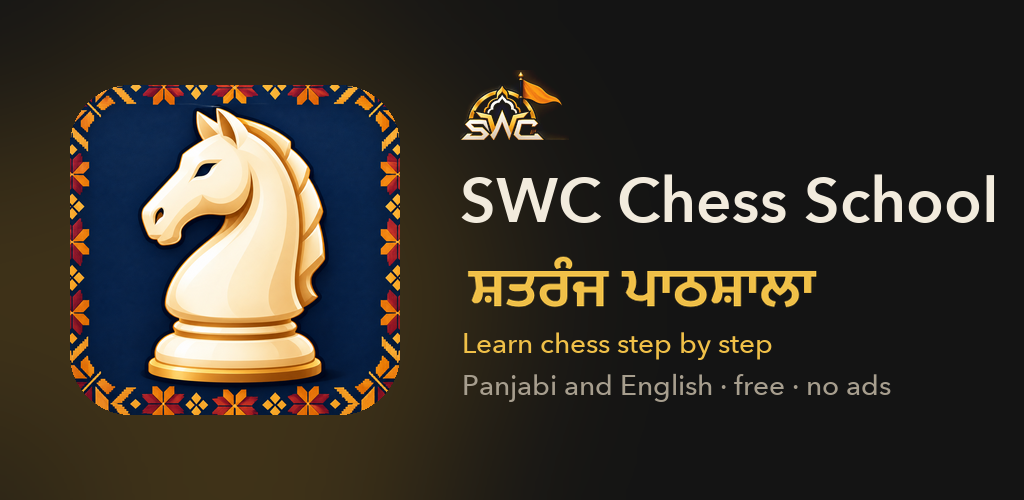
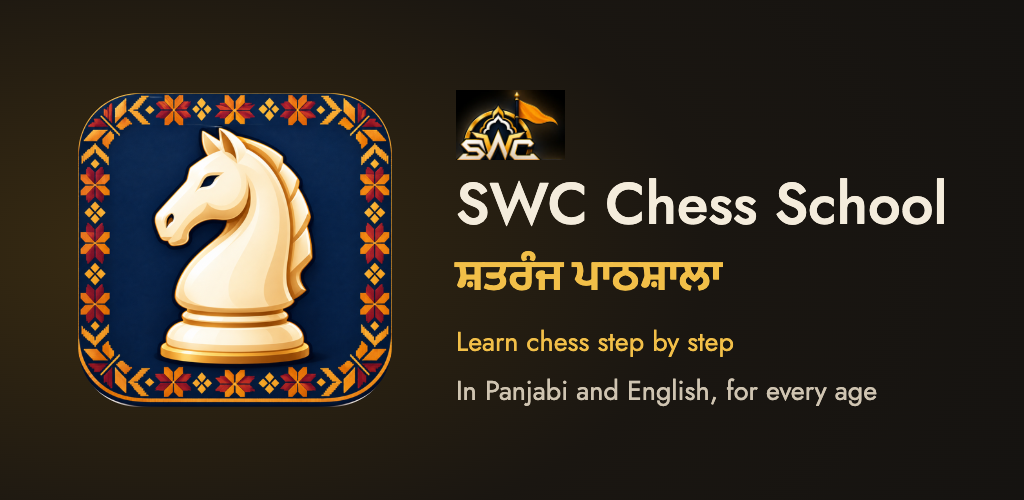
Play listing: remove promotional claims after Metadata-policy rejection; new feature graphic

diff --git a/native/PLAY_STORE.md b/native/PLAY_STORE.md
@@ -37,9 +37,11 @@ is approved and live.
 
 ## Full description (4,000 characters max)
 
+**Google rejected the 1.2.0 listing on 2026-11-08 (Metadata policy: store listing promotion).** No price, "free", "no ads", rating-strength or "thousands" claims anywhere in the description, icon or promotional images. The text below is the corrected version.
+
 **English (UK)**
 > SWC Chess School teaches chess from the very first move to tournament play, in Panjabi and English, for every age.
-> It is free, with no adverts. A parent's account keeps each learner's progress on every device, and the lessons,
+> A parent's account keeps each learner's progress on every device, and the lessons,
 > bots and puzzles keep working without an internet connection.
 >
 > • 93 lessons in 10 levels, from how the pieces move to tactics, endgames, openings and strategy
@@ -47,9 +49,9 @@ is approved and live.
 > • Learn all the checkmates: 37 named mates, from the back-rank mate to famous traps, each one shown, built up move by move, played with help, then practised on real puzzles
 > • Three looks for three ages: big and friendly for 5–9, the full course for 10–15, clean and compact for adults
 > • A friendly coach explains every idea, and the superheroes of each level (Himmat, Seva, Ekta and more) cheer you on
-> • Eight bots to play, from a beginner up to about 2300 (strong club and master level), each with their own style, plus Play vs Coach
+> • Eight bots to play, from beginner to advanced, each with their own style, plus Play vs Coach
 > • Magical Chess: gold gems appear on the board, and a piece that lands on one may change into a new piece
-> • Thousands of real puzzles: daily puzzle, rated puzzles, themes, Puzzle Race, Puzzle Survival and Solo Chess
+> • Real puzzles from real games: daily puzzle, rated puzzles, themes, Puzzle Race, Puzzle Survival and Solo Chess
 > • Calculate: see the moves in your head and train your board vision
 > • Master games: replay famous games and guess the move at each turn
 > • The endgame ladder: win famous endgames, or hold the draw, one rung at a time
@@ -60,7 +62,7 @@ is approved and live.
 > • Dark and light looks, piece sets and boards to earn, and share your best games as a picture
 > • Play online: grown-ups get auto-match, ratings and play anyone; children play only friends their parent accepted and classmates, with four friendly messages and no chat
 >
-> No adverts, no tracking, and nothing sold or shared. Children appear to other players only as an animal and a
+> Children appear to other players only as an animal and a
 > colour, and there is no chat. The code is open source (GPLv3).
 >
 > Made by Shaheedi Bunga, a UK Sikh charity, as part of Sikh World Championships.
